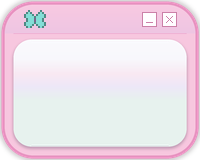
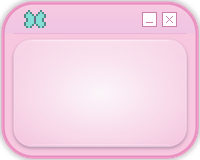
Pixel Daydream: circular (radial) bubble gradient, seamless into the frame
- Panel fill is now a RADIAL gradient: bright centre fading to the window frame
  colour at the edges, so each panel melts seamlessly into its frame.
- Received: bright centre -> soft pink -> pink frame edge.
- Sent: pale centre -> periwinkle -> blue frame edge, with blue blended through
  so it reads soft rather than vibrant.
- On stretched bubbles the circle eases into a centred glow that still blends to
  the frame edges -- even at any length, never a hard band.

Claude-Session: https://claude.ai/code/session_0131KihTAuQeJCaUMiKQDazA

Changed region(s): [[0.06, 0.5625, 0.93, 0.9375], [0.06, 0.25, 0.93, 0.4375]]

diff --git a/themes/pixel-daydream/scripts/generate_images.py b/themes/pixel-daydream/scripts/generate_images.py
@@ -280,6 +280,27 @@ def _rounded_mask(w, h, box, r, val=255):
     return m
 
 
+def _radial_fill(w, h, stops):
+    """Circular gradient: stops[0] at the centre -> stops[-1] at the edge.
+    Built from PIL's radial gradient (0 centre .. 255 edge) via per-channel
+    LUTs, so it's cheap. The edge colour is set to the window frame colour, so
+    the panel melts seamlessly into the frame; on stretched bubbles the circle
+    becomes a soft ellipse but never a hard band."""
+    rad = Image.radial_gradient("L").resize((max(1, w), max(1, h)))
+    n = len(stops) - 1
+
+    def lut(ch):
+        out = []
+        for i in range(256):
+            t = i / 255
+            seg = min(n - 1, int(t * n))
+            k = t * n - seg
+            out.append(int(stops[seg][ch] + (stops[seg + 1][ch] - stops[seg][ch]) * k))
+        return out
+
+    return Image.merge("RGB", (rad.point(lut(0)), rad.point(lut(1)), rad.point(lut(2))))
+
+
 # colours per bubble side: frame, title gradient, iridescent panel stops, glow
 class Bub:
     def __init__(self, border, frame, title_top, title_bot, panel_stops, div, glow, wing):
@@ -297,16 +318,19 @@ class Bub:
                    [d(c) for c in self.panel_stops], d(self.div), self.glow, d(self.wing))
 
 
-# received = pink window / light vertical hologram panel (white->pink->lilac->mint)
+# panel_stops are now a RADIAL ramp: centre -> edge. The edge equals the window
+# frame colour so the panel blends seamlessly into the frame.
+# received = pink window: bright centre -> soft pink -> pink frame edge
 RECV = Bub(border=(232, 146, 192), frame=(247, 199, 223),
            title_top=(250, 202, 225), title_bot=(238, 197, 227),
-           panel_stops=[(249, 250, 255), (251, 234, 244), (240, 235, 251), (233, 247, 241)],
+           panel_stops=[(255, 251, 254), (252, 226, 240), (247, 199, 223)],
            div=(236, 158, 200), glow=(252, 206, 232, 150), wing=(132, 222, 214))
 
-# sent = periwinkle window / vertical blue->lavender->pink->mint hologram panel
+# sent = periwinkle window: pale centre -> periwinkle -> blue frame edge
+# (blue blended through so it reads soft, not vibrant, and melts into the frame)
 SENT = Bub(border=(148, 166, 224), frame=(199, 213, 240),
            title_top=(201, 219, 245), title_bot=(204, 224, 234),
-           panel_stops=[(202, 221, 248), (220, 209, 246), (242, 214, 236), (208, 234, 223)],
+           panel_stops=[(234, 231, 249), (214, 215, 245), (199, 213, 240)],
            div=(158, 178, 226), glow=(200, 216, 246, 150), wing=(140, 224, 204))
 
 PANEL_ALPHA = 242             # frosted: lets a touch of background through
@@ -361,26 +385,19 @@ def _bubble_master(b):
         [px0, py0 + int(DS * 0.9), px1, py1 + int(DS * 0.9)], radius=r_in, fill=(72, 60, 104, 85))
     out.alpha_composite(sh.filter(ImageFilter.GaussianBlur(DS * 0.8)))
 
-    # iridescent fill. The whole colour transition lives in the 9-slice
-    # STRETCH zone (between the caps); the cap zones are solid and equal to the
-    # gradient's end colours. That way KakaoTalk scales the gradient evenly over
-    # the middle of any-height bubble while the caps seamlessly continue the end
-    # colours -- so long messages get an evenly dispersed gradient, not a band.
-    mid0, mid1 = CAP * DS, H - CAP * DS
+    # circular (radial) fill: bright centre fading to the frame colour at the
+    # edges, so the panel blends seamlessly into the window frame.
     pfill = Image.new("RGBA", (W, H), (0, 0, 0, 0))
-    pd = ImageDraw.Draw(pfill)
-    pd.rectangle([0, py0, W, mid0], fill=b.panel_stops[0] + (255,))
-    pfill.paste(_grad_v_stops(W, mid1 - mid0, b.panel_stops).convert("RGBA"), (0, mid0))
-    pd.rectangle([0, mid1, W, py1], fill=b.panel_stops[-1] + (255,))
+    pfill.paste(_radial_fill(px1 - px0, py1 - py0, b.panel_stops).convert("RGBA"), (px0, py0))
     out.paste(pfill, (0, 0), pmask)
 
-    # glossy highlight across the top half of the panel (vertical fade)
+    # soft glossy sheen across the top of the panel (subtle, vertical fade)
     gloss = Image.new("RGBA", (W, H), (0, 0, 0, 0))
     gd = ImageDraw.Draw(gloss)
     ph = py1 - py0
-    for yy in range(py0, py0 + int(ph * 0.52)):
-        t = (yy - py0) / max(1, ph * 0.52)
-        gd.line([px0, yy, px1, yy], fill=(255, 255, 255, int(100 * (1 - t) ** 1.4)))
+    for yy in range(py0, py0 + int(ph * 0.48)):
+        t = (yy - py0) / max(1, ph * 0.48)
+        gd.line([px0, yy, px1, yy], fill=(255, 255, 255, int(62 * (1 - t) ** 1.5)))
     out.alpha_composite(Image.composite(gloss, blank, pmask_full))
 
     d = ImageDraw.Draw(out)
